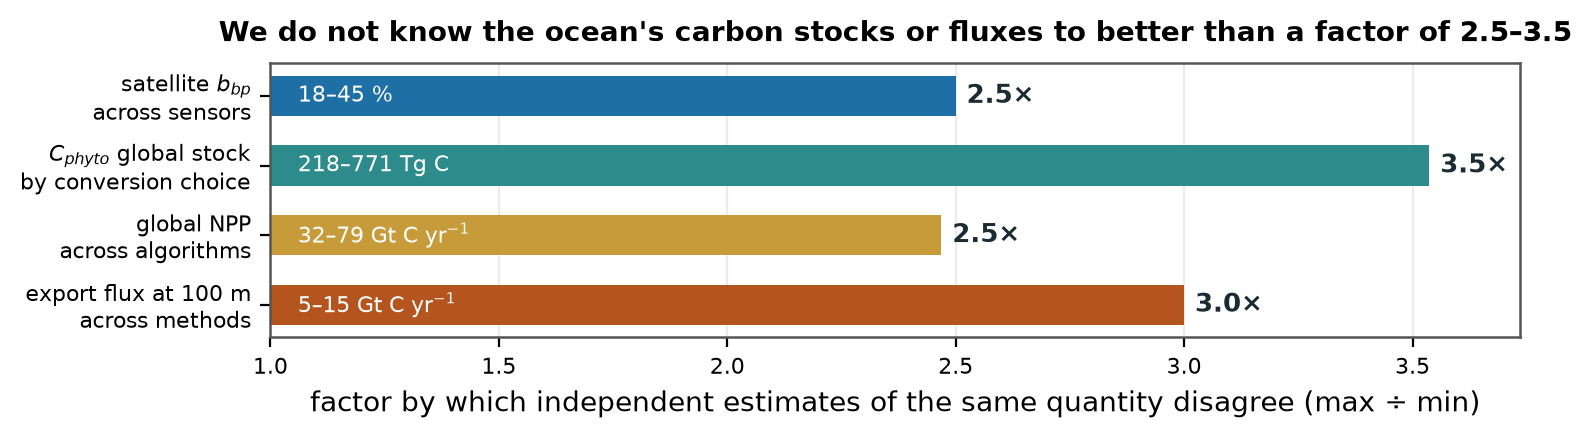
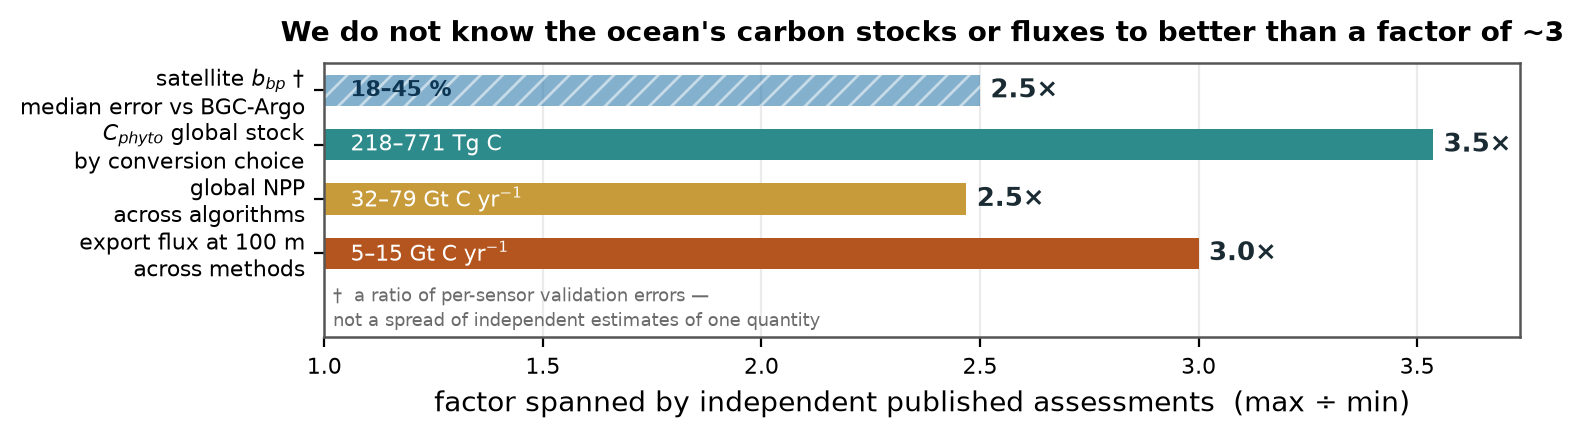
mo

diff --git a/proposals/Schmidt_Sciences/eoi_figure.py b/proposals/Schmidt_Sciences/eoi_figure.py
@@ -110,6 +110,7 @@ class Style:
     fig2_size: tuple[float, float]
     fs_range: float  # the range text set inside each bar (Fig. 1)
     fs_value: float  # the bold "2.5x" labels (Fig. 1)
+    fs_note: float  # the dagger footnote under the bars (Fig. 1)
     fs_tick: float
     fs_axlabel: float
     fs_title: float
@@ -134,6 +135,7 @@ PAPER = Style(
     fig2_size=(7.8, 2.2),
     fs_range=7.8,
     fs_value=9.5,
+    fs_note=6.6,
     fs_tick=8.0,
     fs_axlabel=10.0,
     fs_title=10.0,
@@ -159,6 +161,7 @@ SLIDES = Style(
     fig2_size=(10.0, 4.9),
     fs_range=14.0,
     fs_value=17.0,
+    fs_note=11.0,
     fs_tick=14.5,
     fs_axlabel=16.5,
     fs_title=17.5,
@@ -230,26 +233,63 @@ def _save(fig, name, st):
 
 # ------------------------------------------------------------------ Figure 1 --
 def fig1_problem(st=PAPER):
-    """Factor of disagreement across independent estimates (max / min)."""
-    # (short name, range text, lo, hi, colour) -- from reports/biomass_summary.md
+    """Factor spanned by independent published assessments (max / min).
+
+    **The first row is a different kind of quantity from the other three, and is
+    labelled and drawn to say so.** Rows 2-4 are spreads of independent estimates of
+    the quantity itself, so max/min is literally how much the field disagrees about its
+    value. Row 1 is a spread of *validation error metrics* across satellite products
+    (Bisson et al. 2021: CALIOP 18%, MODIS-GIOP 24%, VIIRS 31%, OLCI 45%, all biased
+    low), so its ratio says one product's median error is 2.5x another's -- a statement
+    about product quality, not about disagreement over bbp. It is kept because the
+    upstream retrieval error is the point of the project, but it is hatched, marked with
+    a dagger, and footnoted so no reader can mistake it for the same measure.
+    """
+    # (short name, range text, lo, hi, colour, is_error_metric)
     items = [
-        ("satellite $b_{bp}$\nacross sensors", "18–45 %", 18, 45, OCEAN),
+        (
+            "satellite $b_{bp}$ †\nmedian error vs BGC-Argo",
+            "18–45 %",
+            18,
+            45,
+            OCEAN,
+            True,
+        ),
         (
             "$C_{phyto}$ global stock\nby conversion choice",
             "218–771 Tg C",
             218,
             771,
             TEAL,
+            False,
         ),
-        ("global NPP\nacross algorithms", "32–79 Gt C yr$^{-1}$", 32, 79, GOLD),
-        ("export flux at 100 m\nacross methods", "5–15 Gt C yr$^{-1}$", 5, 15, RUST),
+        ("global NPP\nacross algorithms", "32–79 Gt C yr$^{-1}$", 32, 79, GOLD, False),
+        (
+            "export flux at 100 m\nacross methods",
+            "5–15 Gt C yr$^{-1}$",
+            5,
+            15,
+            RUST,
+            False,
+        ),
     ]
     fig, ax = plt.subplots(figsize=st.fig1_size)
     ax.spines[:].set_linewidth(st.axes_lw)
     y = np.arange(len(items))[::-1]
 
-    for yi, (_name, rng, lo, hi, c) in zip(y, items):
-        ax.barh(yi, hi / lo - 1.0, left=1.0, color=c, height=0.58, zorder=2)
+    for yi, (_name, rng, lo, hi, c, is_err) in zip(y, items):
+        ax.barh(
+            yi,
+            hi / lo - 1.0,
+            left=1.0,
+            color=c,
+            height=0.58,
+            zorder=2,
+            alpha=0.55 if is_err else 1.0,
+            hatch="///" if is_err else None,
+            edgecolor="white" if is_err else "none",
+            linewidth=0.0,
+        )
         # Range text sits inside the bar, where there is always room for it.
         ax.text(
             1.06,
@@ -258,7 +298,8 @@ def fig1_problem(st=PAPER):
             va="center",
             ha="left",
             fontsize=st.fs_range,
-            color="white",
+            color="white" if not is_err else "#0d3552",
+            fontweight="bold" if is_err else "normal",
             zorder=4,
         )
 
@@ -266,9 +307,9 @@ def fig1_problem(st=PAPER):
     ax.set_xlim(1.0, 4.0)
     fig.canvas.draw()
     pad = _text_w_data(ax, "  3.5×", st.fs_value)
-    ax.set_xlim(1.0, max(hi / lo for _, _, lo, hi, _ in items) + pad)
+    ax.set_xlim(1.0, max(it[3] / it[2] for it in items) + pad)
 
-    for yi, (_name, _rng, lo, hi, _c) in zip(y, items):
+    for yi, (_name, _rng, lo, hi, _c, _e) in zip(y, items):
         ax.text(
             hi / lo + pad * 0.12,
             yi,
@@ -284,14 +325,28 @@ def fig1_problem(st=PAPER):
     ax.set_yticks(y)
     ax.set_yticklabels([it[0] for it in items], fontsize=st.fs_tick)
     ax.tick_params(labelsize=st.fs_tick)
+    # Room beneath the bars for the dagger footnote, inside the axes. Wrapped to two
+    # lines: on one line at slide font sizes it is wider than the axes and drags the
+    # tight bounding box out with it. The per-sensor values live in the caption.
+    ax.set_ylim(-1.55, len(items) - 0.5)
+    ax.text(
+        1.02,
+        -1.02,
+        "†  a ratio of per-sensor validation errors —\n"
+        "not a spread of independent estimates of one quantity",
+        ha="left",
+        va="center",
+        fontsize=st.fs_note,
+        color="0.42",
+        linespacing=1.35,
+    )
     ax.set_xlabel(
-        "factor by which independent estimates of the same quantity disagree "
-        "(max ÷ min)",
+        "factor spanned by independent published assessments  (max ÷ min)",
         fontsize=st.fs_axlabel,
     )
     ax.set_title(
         "We do not know the ocean's carbon stocks or fluxes to better "
-        "than a factor of 2.5–3.5",
+        "than a factor of ~3",
         fontsize=st.fs_title,
         fontweight="bold",
         pad=st.title_pad,

diff --git a/proposals/Schmidt_Sciences/EOI-proposal.md b/proposals/Schmidt_Sciences/EOI-proposal.md
@@ -19,7 +19,11 @@ of the 1980s [1]. The two most recent global export estimates have **non-overlap
 **Figure 1.** Independent estimates of the same ocean-carbon quantity disagree by factors of
 2.5–3.5. These empirical spreads, not single-study error bars, are the honest measure of current
 uncertainty: published error bars are in-sample and conversion-only, and so are optimistic lower
-bounds [1–7].
+bounds [1–7]. The hatched first row is a **different kind of quantity** and is marked as such: it
+is the spread of per-sensor validation errors against BGC-Argo — CALIOP 18%, MODIS-GIOP 24%,
+VIIRS 31%, OLCI 45%, all biased low [2] — so its ratio compares product accuracy rather than
+disagreement about bbp itself. Note also that the smallest of those errors belongs to a lidar; among
+the passive sensors alone the span is 24–45%.
 
 This uncertainty is *inherited, not intrinsic*. The retrieval underpinning every global ocean-carbon
 product is ill-posed: reflectance constrains essentially the ratio bb/(a+bb), so ~90% of measured
